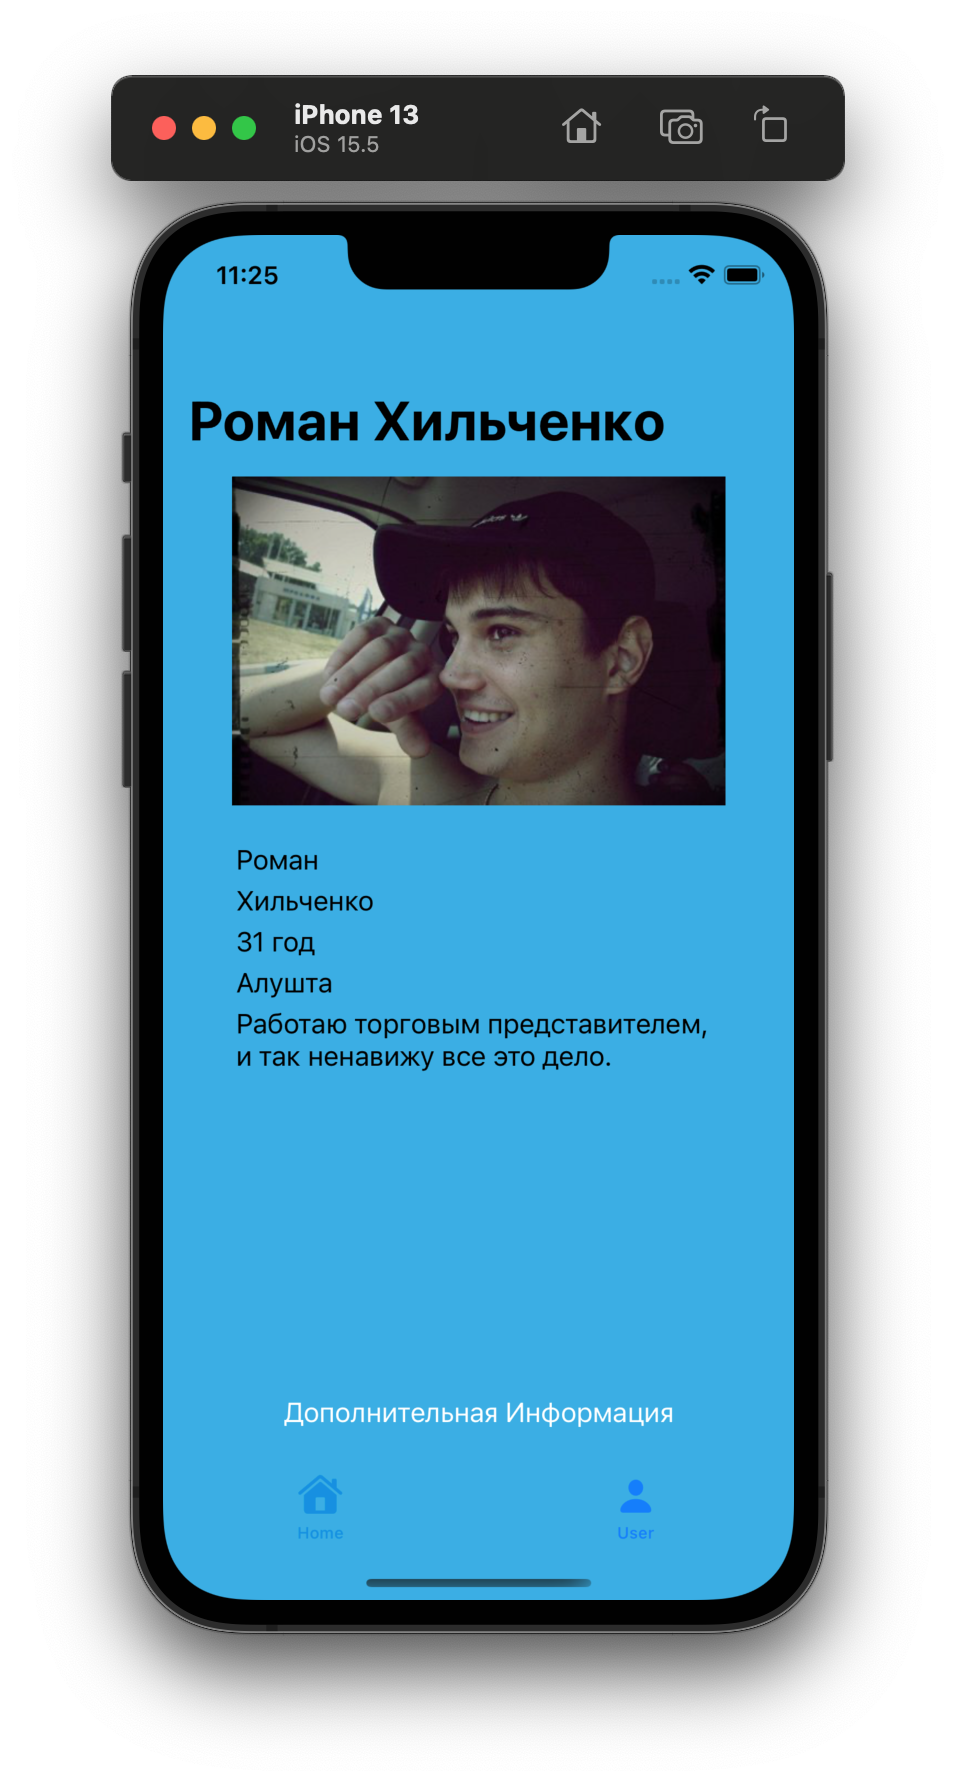
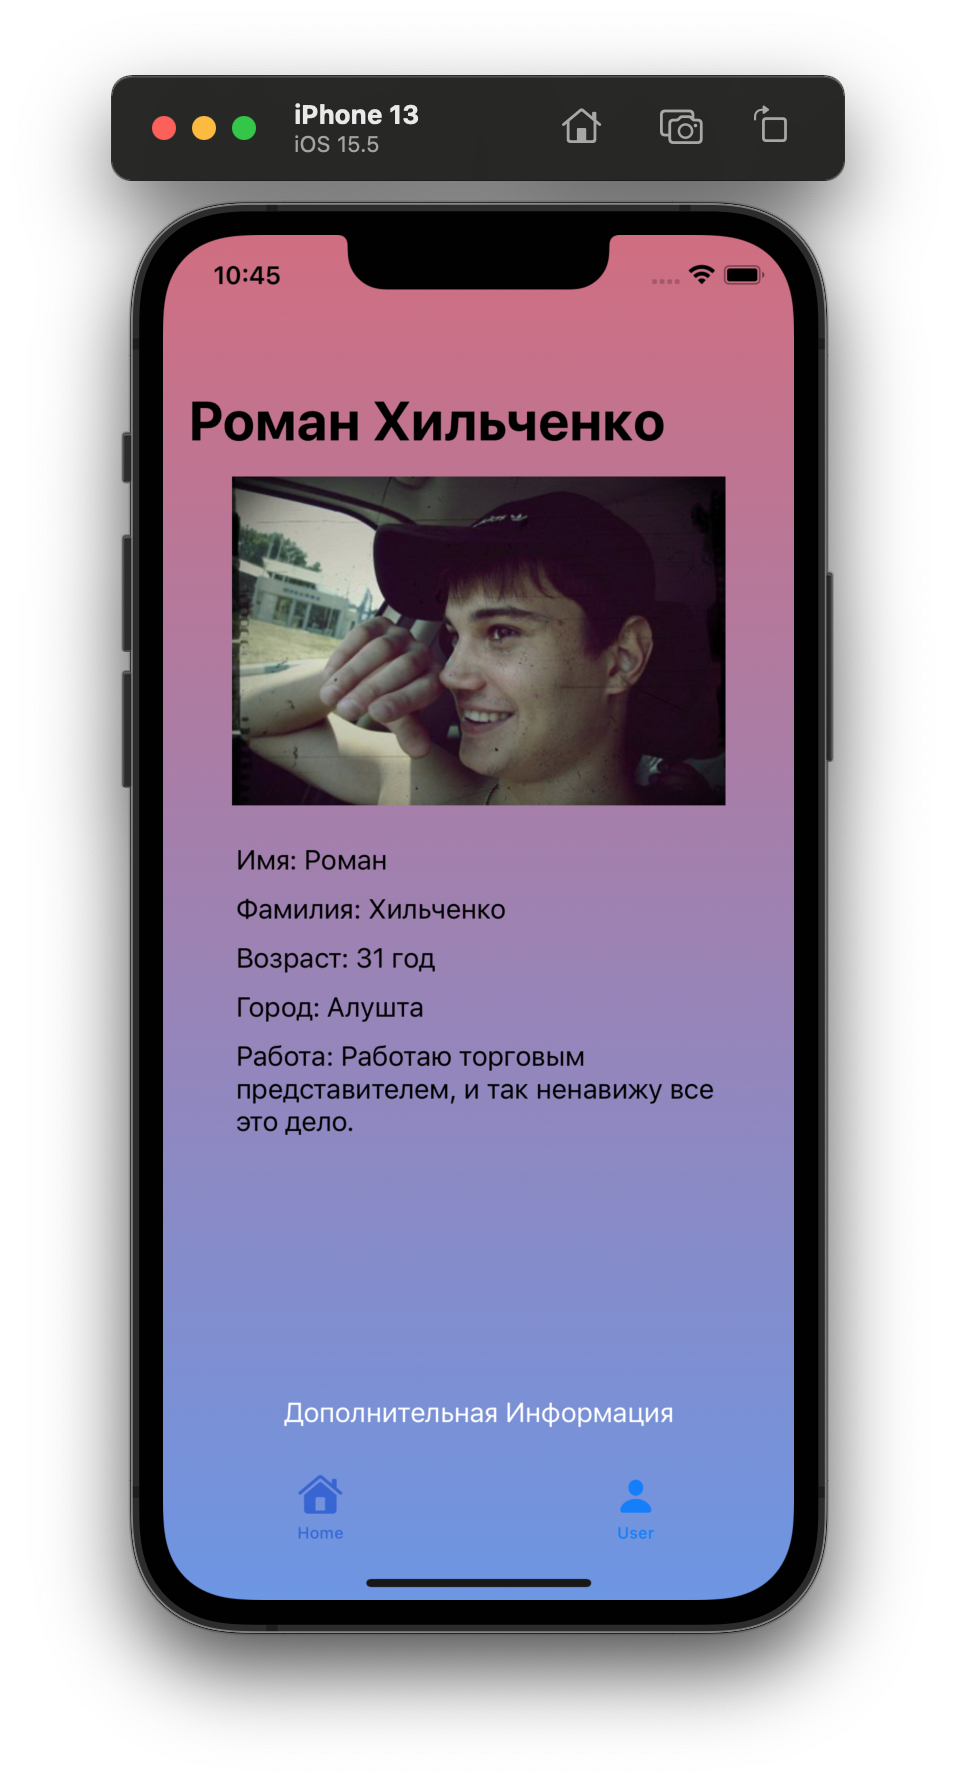
Change some code

diff --git a/LoginApp/UserModels/UserModel.swift b/LoginApp/UserModels/UserModel.swift
@@ -5,15 +5,12 @@
 //  Created by roman Khilchenko on 16.08.2022.
 //
 
-import UIKit
-
 struct User {
     let login: String
     let password: String
-    static func userModel() -> [User] {
-        var modelUser: [User] = []
-        modelUser.append(User(login: "Роман Хильченко", password: "pass"))
-        return modelUser
+    let person: Person
+    static func userModel() -> User {
+        User(login: "Роман Хильченко", password: "1", person: Person.getPerson())
     }
 }
 
@@ -25,10 +22,12 @@ struct Person {
     let city: String
     let work: String
     let hobby: String
+    var fullName: String {
+        "\(name) \(surname)"
+    }
     
-    static func personModel() -> [Person] {
-        var modelPerson: [Person] = []
-        modelPerson.append(Person(image: "image", name: "Роман", surname: "Хильченко", age: "31 год", city: "Алушта", work: "Работаю торговым представителем, и так ненавижу все это дело.", hobby: "Родился и вырос в замечательном и очень маленьком Крымском городке на побережье черного моря. После школы поступил в Ялтинский университет,вообщем специальность моя Менеджмент организаций и администрирование. C 2012 работаю торговым представителем. Сейчас работаю в одной из самых крупным табачных компаний мира. Честно говоря, всегда хотелось делать что-то по настоящему важное и то, что будет по душе. К моему счастью мой разум не затмен всякой ерундой отвлекающий от реальности и думаю ,что это сподвигло меня искать по настоящему, что то важное для меня! После прочтения книги о Стиве Джобсе, меня осенило, и я захотел стать программистом! Но сначала не понимал в каком направлении хочу двигаться.К счастью пользуясь техникой Apple, все встало на свои места и поэтому я здесь! Очень люблю кататься на сноуборде, заниматься спортом и путешестовать, ах да, у меня появилась любовь к языку SWIFT! Хочу подытожить Я СТАНУ КРУТЫМ IOS РАЗРАБОТЧИКОМ!!!"))
-        return modelPerson
+    static func getPerson() -> Person {
+       Person(image: "image", name: "Роман", surname: "Хильченко", age: "31 год", city: "Алушта", work: "Работаю торговым представителем, и так ненавижу все это дело.", hobby: "Родился и вырос в замечательном и очень маленьком Крымском городке на побережье черного моря. После школы поступил в Ялтинский университет,вообщем специальность моя Менеджмент организаций и администрирование. C 2012 работаю торговым представителем. Сейчас работаю в одной из самых крупным табачных компаний мира. Честно говоря, всегда хотелось делать что-то по настоящему важное и то, что будет по душе. К моему счастью мой разум не затмен всякой ерундой отвлекающий от реальности и думаю ,что это сподвигло меня искать по настоящему, что то важное для меня! После прочтения книги о Стиве Джобсе, меня осенило, и я захотел стать программистом! Но сначала не понимал в каком направлении хочу двигаться.К счастью пользуясь техникой Apple, все встало на свои места и поэтому я здесь! Очень люблю кататься на сноуборде, заниматься спортом и путешестовать, ах да, у меня появилась любовь к языку SWIFT! Хочу подытожить Я СТАНУ КРУТЫМ IOS РАЗРАБОТЧИКОМ!!!")
+        
     }
 }

diff --git a/LoginApp/ViewControllers/LoginViewController.swift b/LoginApp/ViewControllers/LoginViewController.swift
@@ -17,10 +17,12 @@ class LoginViewController: UIViewController {
     @IBOutlet var forgetUserNameButton: UIButton!
     @IBOutlet var forgetPasswordButton: UIButton!
     
+   
     //MARK: - Приватные свойства
-    private var login = ""
-    private var password = ""
-    private var modelUser = User.userModel()
+    private var login = User.userModel().login
+    private var password = User.userModel().password
+    
+    private let user = User.userModel()
     
     
     //MARK: - Переопределенные методы
@@ -28,7 +30,6 @@ class LoginViewController: UIViewController {
         super.viewDidLoad()
         setupTextField()
         setupButton()
-        setupModelUser(model: modelUser[0])
         registerForKeyboardNotifications()
     }
     deinit {
@@ -47,13 +48,13 @@ class LoginViewController: UIViewController {
         tabBar.modalPresentationStyle = .overCurrentContext
         for viewController in viewControllers {
             if let greetingVc = viewController as? GreetingViewController {
-                greetingVc.userLabel = loginTextField.text
+                greetingVc.user = user
                 greetingVc.tabBarItem.title = "Home"
                 greetingVc.tabBarItem.image = UIImage(systemName: "house.fill")
             } else if let naviController = viewController as? UINavigationController {
                 if let userVc = naviController.topViewController as? UserViewController {
+                    userVc.user = user
                     userVc.navigationItem.title = loginTextField.text
-                    userVc.view.backgroundColor = .systemCyan
                     userVc.navigationItem.backButtonTitle = "Back"
                     userVc.navigationController?.navigationBar.tintColor = .black
                     userVc.tabBarItem.title = "User"
@@ -65,7 +66,7 @@ class LoginViewController: UIViewController {
     
     //MARK: - IBAction 
     @IBAction func loginButtonAction() {
-        guard loginTextField.text == login && passwordTextField.text == password else {
+        guard loginTextField.text == user.login && passwordTextField.text == user.password else {
             showAlert(title: "Invalid login or password", message: "Please enter correct login and password")
             return
         }
@@ -73,12 +74,12 @@ class LoginViewController: UIViewController {
     
     
     @IBAction func forgotUserNameAction() {
-        showAlert(title: "Oops!", message: "Your name is \(login) \u{1F609}")
+        showAlert(title: "Oops!", message: "Your name is \(user.login) \u{1F609}")
     }
     
     
     @IBAction func forgotPasswordAction() {
-        showAlert(title: "Oops!", message: "Your password is \(password) \u{1F609}")
+        showAlert(title: "Oops!", message: "Your password is \(user.password) \u{1F609}")
     }
     
     
@@ -108,11 +109,6 @@ class LoginViewController: UIViewController {
             button.setTitle(buttonNames[index], for: .normal)
             
         }
-    }
-    
-    private func setupModelUser(model: User) {
-        login = model.login
-        password = model.password
     }
 }
 

diff --git a/LoginApp/ViewControllers/UserViewController.swift b/LoginApp/ViewControllers/UserViewController.swift
@@ -13,33 +13,39 @@ class UserViewController: UIViewController {
     @IBOutlet var profileButton: UIButton!
     
     @IBOutlet var userImage: UIImageView!
-    
+        
     @IBOutlet var nameLabel: UILabel!
     @IBOutlet var surnameLabel: UILabel!
     @IBOutlet var ageLabel: UILabel!
     @IBOutlet var townLabel: UILabel!
     @IBOutlet var jobLabel: UILabel!
     
-    //MARK: - Приватные свойства
-    private let personModel = Person.personModel()
-    
+    var user: User!
     
     //MARK: - Переопределенные методы
     override func viewDidLoad() {
         super.viewDidLoad()
         setupButton()
         setupLabel()
-        setupModelPerson(personModel[0])
+        setupModelPerson()
+       
+    }
+    
+    override func prepare(for segue: UIStoryboardSegue, sender: Any?) {
+        guard let aboutMe = segue.destination as? AboutMeViewController else { return }
+        aboutMe.user = user
+        
     }
     
     //MARK: - Приватные методы
-    private func setupModelPerson(_ model: Person) {
-        userImage.image = UIImage(named: model.image)
-        nameLabel.text = model.name
-        surnameLabel.text = model.surname
-        ageLabel.text = model.age
-        townLabel.text = model.city
-        jobLabel.text = model.work
+    private func setupModelPerson() {
+        view.addVerticalGradientLayer()
+        userImage.image = UIImage(named: user.person.image)
+        nameLabel.text = "Имя: \(user.person.name)"
+        surnameLabel.text = "Фамилия: \(user.person.surname)"
+        ageLabel.text = "Возраст: \(user.person.age)"
+        townLabel.text = "Город: \(user.person.city)"
+        jobLabel.text = "Работа: \(user.person.work)"
     }
     
     private func setupButton() {
@@ -58,3 +64,5 @@ class UserViewController: UIViewController {
         }
     }
 }
+    
+

diff --git a/LoginApp/ViewControllers/GreetingViewController.swift b/LoginApp/ViewControllers/GreetingViewController.swift
@@ -9,27 +9,29 @@ import UIKit
 
 class GreetingViewController: UIViewController {
     
+    //MARK: - IBOutlets
     @IBOutlet var welcomeLabel: UILabel!
-    @IBOutlet var userNameLabel: UILabel!
     @IBOutlet var handGreetingLabel: UILabel!
     
     @IBOutlet var logOutButton: UIButton!
     
-    var userLabel: String!
+    //MARK: - PublicProperty
+    var user: User!
     
+    //MARK: Переопределенные методы
     override func viewDidLoad() {
         super.viewDidLoad()
         setupLabel()
         setupButton()
-        setupNavigationController()
     }
     
     //MARK: - Приватные методы
     private func setupLabel() {
-        let labels = [welcomeLabel, userNameLabel, handGreetingLabel]
-        let namesLabel = ["Welcome,", "", "\u{1F44B}"]
+        let labels = [welcomeLabel, handGreetingLabel]
+        let namesLabel = ["", "\u{1F44B}"]
+        view.addVerticalGradientLayer()
         for (index, label) in labels.enumerated() {
-            userNameLabel.text = userLabel
+            welcomeLabel.text = "Welcome, \(user.person.fullName)!"
             guard let label = label else { return }
             label.text = namesLabel[index]
             label.textColor = .white
@@ -50,13 +52,4 @@ class GreetingViewController: UIViewController {
     
 }
 
-extension GreetingViewController {
-    private func setupNavigationController() {
-        let navigationBar = UINavigationBarAppearance()
-        navigationBar.configureWithOpaqueBackground()
-        navigationController?.navigationBar.standardAppearance = navigationBar
-        navigationController?.navigationBar.scrollEdgeAppearance = navigationBar
-    
-        
-    }
-}
+

diff --git a/LoginApp/ViewControllers/extention + GradientUIView.swift b/LoginApp/ViewControllers/extention + GradientUIView.swift
@@ -1,0 +1,35 @@
+//
+//  extention + GradientUIView.swift
+//  LoginApp
+//
+//  Created by roman Khilchenko on 19.08.2022.
+//
+
+import UIKit
+
+extension UIView {
+    
+    func addVerticalGradientLayer() {
+        let primaryColor = UIColor(
+            red: 210/255,
+            green: 109/255,
+            blue: 128/255,
+            alpha: 1
+        )
+        
+        let secondaryColor = UIColor(
+            red: 107/255,
+            green: 148/255,
+            blue: 230/255,
+            alpha: 1
+        )
+        
+        let gradient = CAGradientLayer()
+        gradient.frame = bounds
+        gradient.colors = [primaryColor.cgColor, secondaryColor.cgColor]
+        gradient.locations = [0.0, 1.0]
+        gradient.startPoint = CGPoint(x: 0, y: 0)
+        gradient.endPoint = CGPoint(x: 0, y: 1)
+        layer.insertSublayer(gradient, at: 0)
+    }
+}

diff --git a/LoginApp/ViewControllers/AboutMeViewController.swift b/LoginApp/ViewControllers/AboutMeViewController.swift
@@ -11,16 +11,17 @@ class AboutMeViewController: UIViewController {
     
     @IBOutlet var aboutMeLabel: UILabel!
     
-    private let modelPerson = Person.personModel()
+    var user: User!
     
     override func viewDidLoad() {
         super.viewDidLoad()
-        setupModelAboutMe(modelPerson[0])
-        setupLabel() 
+        setupModelAboutMe()
+        setupLabel()
     }
     
-    private func setupModelAboutMe(_ model: Person) {
-        aboutMeLabel.text = model.hobby
+    private func setupModelAboutMe() {
+        view.addVerticalGradientLayer()
+        aboutMeLabel.text = user.person.hobby
         
     }
     
